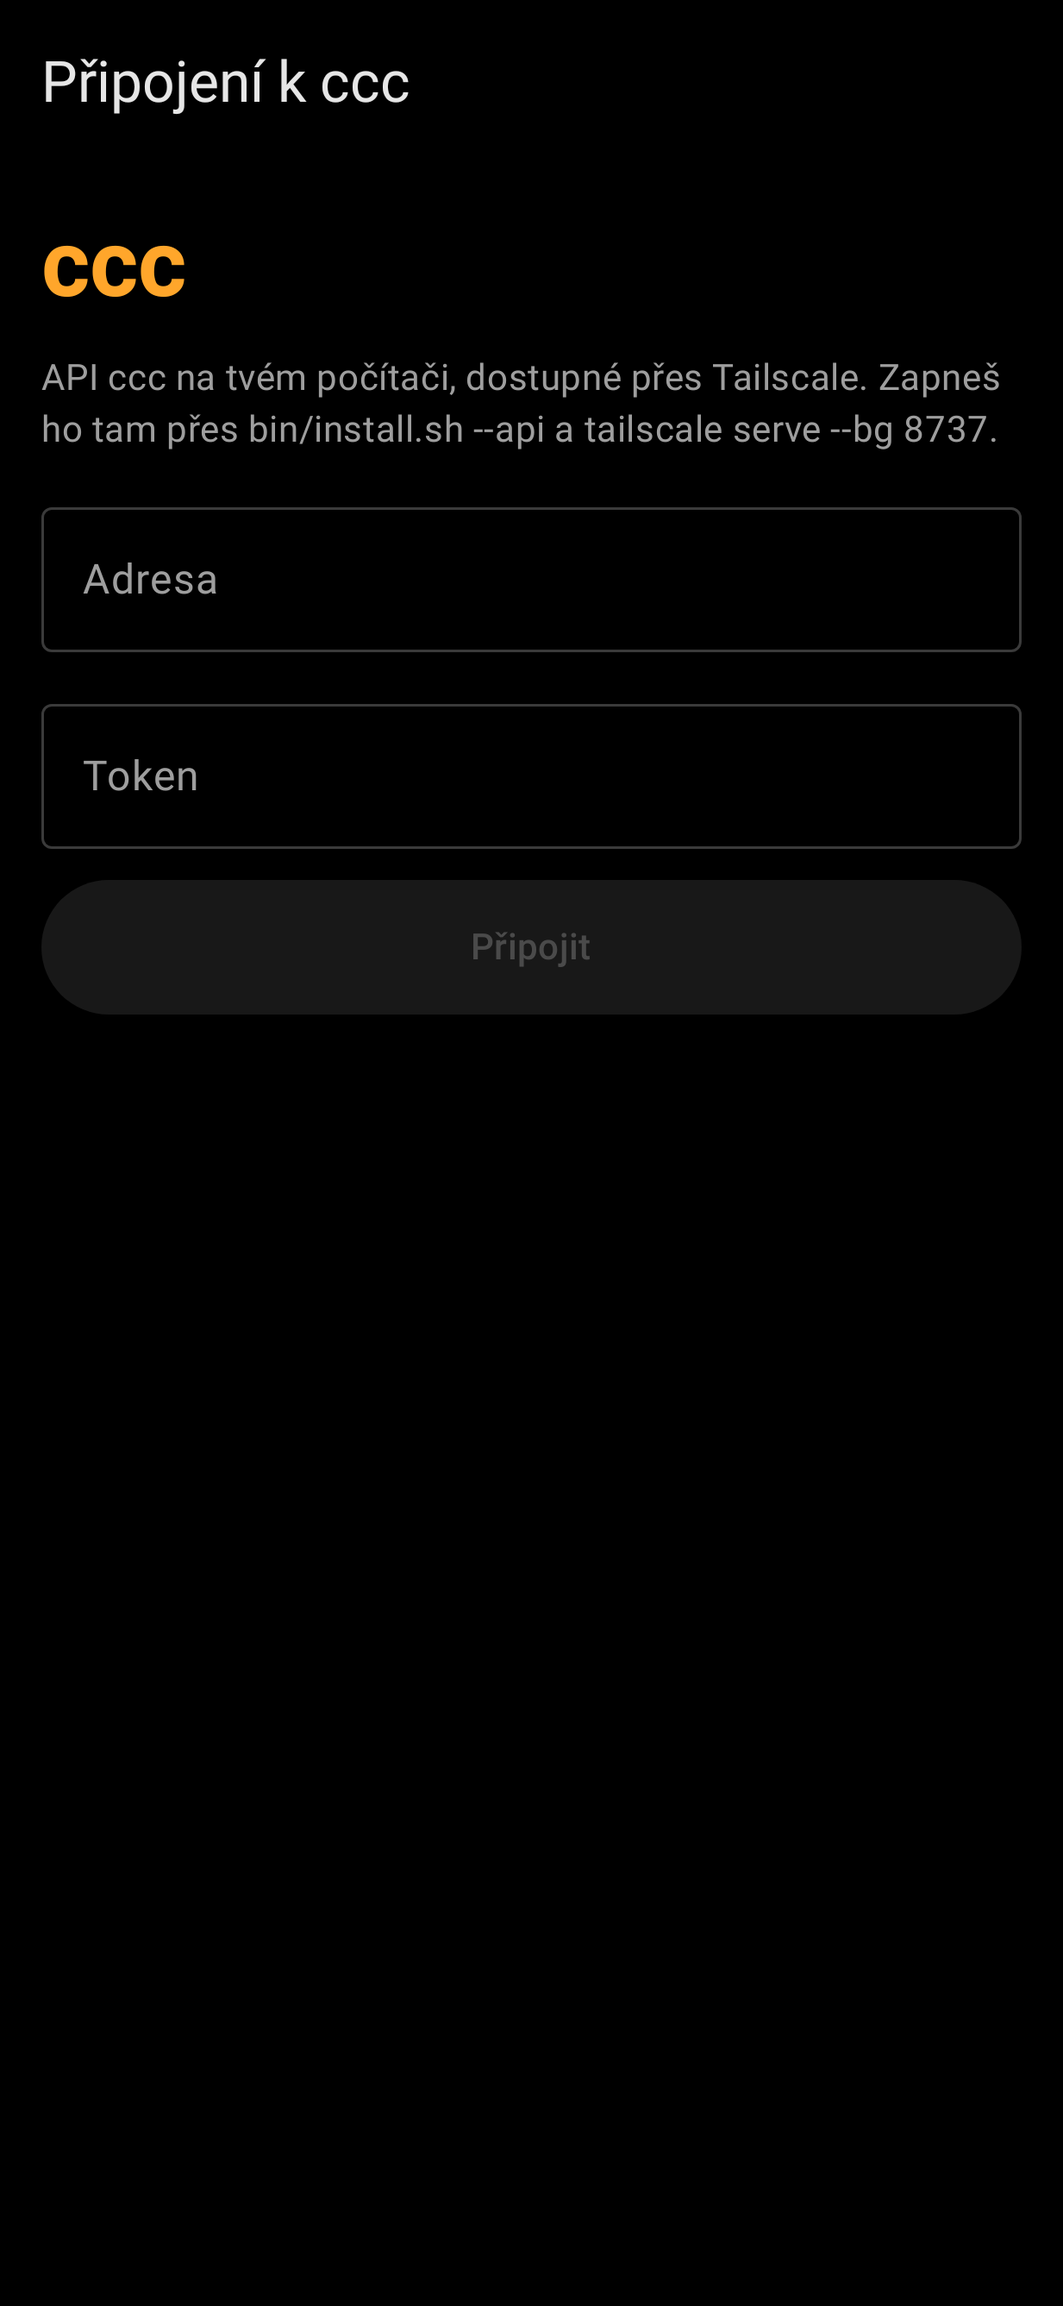
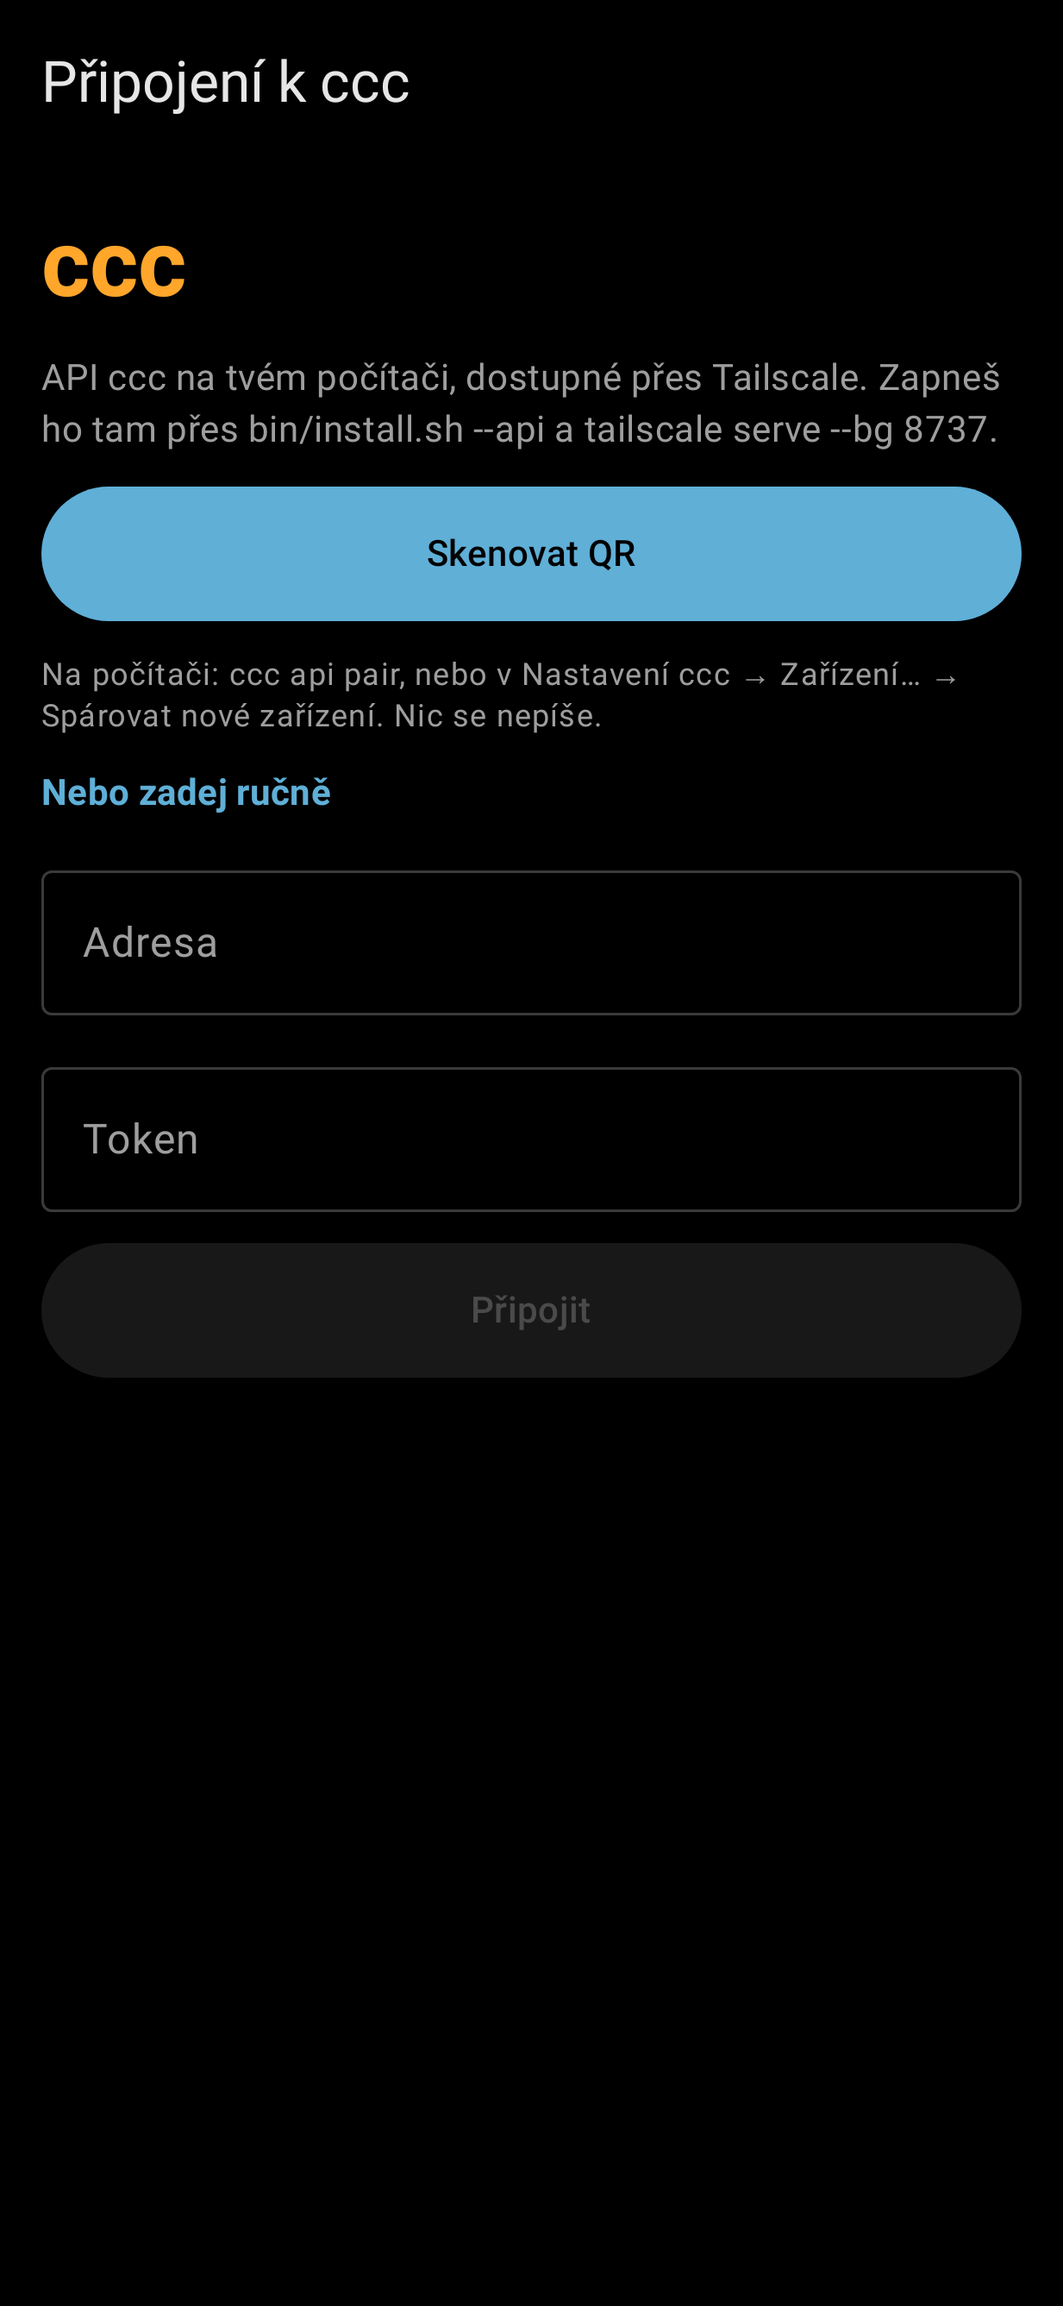
Android: sign in by scanning the QR code (ZXing), list and sign out devices (#128)
Claude-Session: https://claude.ai/code/session_01HoGxXtgeHNDDkThvTcTfKm

diff --git a/app/src/main/java/io/github/luquas95/ccc/ui/OtherScreens.kt b/app/src/main/java/io/github/luquas95/ccc/ui/OtherScreens.kt
@@ -46,6 +46,7 @@ import androidx.compose.material3.SnackbarHost
 import androidx.compose.material3.SnackbarHostState
 import androidx.compose.material3.Switch
 import androidx.compose.material3.Text
+import androidx.compose.material3.TextButton
 import androidx.compose.material3.TopAppBar
 import androidx.compose.material3.TopAppBarDefaults
 import androidx.compose.runtime.Composable
@@ -58,6 +59,9 @@ import androidx.compose.ui.Alignment
 import androidx.compose.ui.Modifier
 import androidx.compose.ui.graphics.Color
 import androidx.compose.ui.platform.LocalContext
+import com.journeyapps.barcodescanner.ScanContract
+import com.journeyapps.barcodescanner.ScanOptions
+import io.github.luquas95.ccc.data.Device
 import androidx.compose.ui.res.stringResource
 import androidx.core.content.ContextCompat
 import androidx.compose.ui.text.font.FontFamily
@@ -422,6 +426,25 @@ private fun SwitchRow(label: String, checked: Boolean, onChange: (Boolean) -> Un
     }
 }
 
+/** A phone signed in to ccc: its name, when and from where it was last seen, and a way to sign it out. */
+@Composable
+private fun DeviceRow(device: Device, onSignOut: (Device) -> Unit) {
+    Row(Modifier.fillMaxWidth(), verticalAlignment = Alignment.CenterVertically) {
+        Column(Modifier.weight(1f)) {
+            Text(
+                if (device.current) stringResource(R.string.device_this, device.name) else device.name,
+                fontWeight = if (device.current) FontWeight.Bold else FontWeight.Normal,
+            )
+            val seen = shortTime(device.lastSeenAt) ?: stringResource(R.string.device_never)
+            Text(listOf(seen, device.lastIp).filter { it.isNotBlank() }.joinToString(" · "),
+                style = MaterialTheme.typography.bodySmall, color = CccColors.Muted)
+        }
+        TextButton(onClick = { onSignOut(device) }) {
+            Text(stringResource(R.string.setup_sign_out), color = CccColors.Error)
+        }
+    }
+}
+
 @Composable
 fun SetupScreen(
     server: String,
@@ -434,15 +457,27 @@ fun SetupScreen(
     onConnect: (String, String, (Boolean) -> Unit) -> Unit,
     onNotifications: (Boolean) -> Unit,
     onSignOut: () -> Unit,
+    devices: List<Device>? = null,
+    onDevices: () -> Unit = {},
+    onSignOutDevice: (Device) -> Unit = {},
+    onScan: (String, (Boolean) -> Unit) -> Unit = { _, _ -> },
 ) {
     val context = LocalContext.current
+    var address by rememberSaveable { mutableStateOf(server) }
+    var token by rememberSaveable { mutableStateOf("") }
+    var busy by rememberSaveable { mutableStateOf(false) }
+    // The QR code of `ccc api pair`: the library's own screen asks for the camera and reads it.
+    val scan = rememberLauncherForActivityResult(ScanContract()) { result ->
+        result.contents?.let { text ->
+            busy = true
+            onScan(text) { busy = false }
+        }
+    }
+    LaunchedEffect(signedIn) { if (signedIn) onDevices() }
     // Android 13+ asks before an app may notify; on a yes, watching starts.
     val ask = rememberLauncherForActivityResult(ActivityResultContracts.RequestPermission()) { granted ->
         if (granted) onNotifications(true)
     }
-    var address by rememberSaveable { mutableStateOf(server) }
-    var token by rememberSaveable { mutableStateOf("") }
-    var busy by rememberSaveable { mutableStateOf(false) }
     Scaffold(
         topBar = { TopBar(stringResource(if (signedIn) R.string.connection else R.string.setup_title), onBack) },
         snackbarHost = { SnackbarHost(snackbar) },
@@ -462,6 +497,21 @@ fun SetupScreen(
                 Text(stringResource(R.string.setup_connected_to, server), color = CccColors.Muted)
             }
             Text(stringResource(R.string.setup_intro), style = MaterialTheme.typography.bodyMedium, color = CccColors.Muted)
+            Button(
+                onClick = {
+                    scan.launch(ScanOptions().apply {
+                        setDesiredBarcodeFormats(ScanOptions.QR_CODE)
+                        setPrompt(context.getString(R.string.scan_prompt))
+                        setBeepEnabled(false)
+                        setOrientationLocked(false)
+                    })
+                },
+                enabled = !busy,
+                modifier = Modifier.fillMaxWidth().height(52.dp),
+            ) { Text(stringResource(R.string.scan_qr)) }
+            Text(stringResource(R.string.scan_hint), style = MaterialTheme.typography.bodySmall, color = CccColors.Muted)
+            Text(stringResource(R.string.setup_manual), style = MaterialTheme.typography.titleSmall,
+                color = CccColors.Title, fontWeight = FontWeight.Bold)
             OutlinedTextField(
                 value = address,
                 onValueChange = { address = it },
@@ -492,6 +542,11 @@ fun SetupScreen(
                 if (busy) CircularProgressIndicator(Modifier.height(24.dp)) else Text(stringResource(R.string.setup_connect))
             }
             if (signedIn) {
+                Spacer(Modifier.height(16.dp))
+                Text(stringResource(R.string.devices), style = MaterialTheme.typography.titleSmall,
+                    color = CccColors.Title, fontWeight = FontWeight.Bold)
+                Text(stringResource(R.string.devices_hint), style = MaterialTheme.typography.bodySmall, color = CccColors.Muted)
+                devices?.forEach { device -> DeviceRow(device, onSignOutDevice) }
                 Spacer(Modifier.height(16.dp))
                 Text(stringResource(R.string.notifications), style = MaterialTheme.typography.titleSmall,
                     color = CccColors.Title, fontWeight = FontWeight.Bold)

diff --git a/app/src/main/java/io/github/luquas95/ccc/ui/AppViewModel.kt b/app/src/main/java/io/github/luquas95/ccc/ui/AppViewModel.kt
@@ -1,6 +1,7 @@
 package io.github.luquas95.ccc.ui
 
 import android.app.Application
+import android.os.Build
 import androidx.lifecycle.AndroidViewModel
 import androidx.lifecycle.viewModelScope
 import io.github.luquas95.ccc.R
@@ -8,11 +9,13 @@ import io.github.luquas95.ccc.data.ApiException
 import io.github.luquas95.ccc.data.CccApi
 import io.github.luquas95.ccc.data.Conversation
 import io.github.luquas95.ccc.data.ConversationDetail
+import io.github.luquas95.ccc.data.Device
 import io.github.luquas95.ccc.data.Export
 import io.github.luquas95.ccc.data.LaunchOptions
 import io.github.luquas95.ccc.data.LaunchPresets
 import io.github.luquas95.ccc.data.Message
 import io.github.luquas95.ccc.data.NewConversation
+import io.github.luquas95.ccc.data.Pairing
 import io.github.luquas95.ccc.data.Permission
 import io.github.luquas95.ccc.data.PromptPreset
 import io.github.luquas95.ccc.data.SearchHit
@@ -277,12 +280,57 @@ class AppViewModel(application: Application) : AndroidViewModel(application) {
         }
     }
 
+    /** A scanned QR code: a ccc pairing invite becomes a signed-in phone; anything else is refused. */
+    fun scanned(text: String, onDone: (Boolean) -> Unit) {
+        val invite = Pairing.parse(text)
+        if (invite == null) {
+            _message.value = text(R.string.error_qr)
+            onDone(false)
+            return
+        }
+        val unpaired = runCatching { CccApi(invite.server) }.getOrElse {
+            _message.value = text(R.string.error_server_address)
+            onDone(false)
+            return
+        }
+        viewModelScope.launch {
+            try {
+                val paired = unpaired.pair(invite.code, Build.MODEL.orEmpty().ifBlank { "Android" })
+                connect(invite.server, paired.token, onDone)
+            } catch (e: CancellationException) {
+                throw e
+            } catch (e: IOException) {
+                _message.value = if (e is ApiException && e.code == 401) text(R.string.error_pairing) else describe(e)
+                onDone(false)
+            }
+        }
+    }
+
+    private val _devices = MutableStateFlow<List<Device>?>(null)
+    /** The phones signed in to ccc (null until loaded), for the connection screen. */
+    val devices: StateFlow<List<Device>?> = _devices.asStateFlow()
+
+    fun loadDevices() {
+        val api = api ?: return
+        viewModelScope.launch { guard { _devices.value = api.devices() } }
+    }
+
+    /** Sign a phone out; this phone itself means signing out here too. */
+    fun signOutDevice(device: Device) {
+        val api = api ?: return
+        viewModelScope.launch {
+            if (!guard { api.removeDevice(device.id) }) return@launch
+            if (device.current) signOut() else loadDevices()
+        }
+    }
+
     fun signOut() {
         settings.clear()
         api = null
         events?.cancel()
         _home.value = HomeState()
         _conversation.value = null
+        _devices.value = null
         _screens.value = listOf(Screen.Setup)
         _notifications.value = false
         WatchService.sync(getApplication())

diff --git a/app/src/test/java/io/github/luquas95/ccc/data/CccApiTest.kt b/app/src/test/java/io/github/luquas95/ccc/data/CccApiTest.kt
@@ -106,6 +106,46 @@ class CccApiTest {
     }
 
     @Test
+    fun `pairing trades the code for a token without sending one`() = runBlocking {
+        answers["pair"] = 201 to """{"token": "t0k", "device_id": 4, "name": "Pixel", "version": "0.1.0"}"""
+
+        val paired = CccApi("http://127.0.0.1:${server.address.port}").pair("one-time", "Pixel")
+
+        assertEquals("t0k", paired.token)
+        assertEquals(4, paired.deviceId)
+        assertNull(seen.single().auth)
+        assertEquals("POST", seen.single().method)
+        assertTrue(seen.single().body.contains("\"code\":\"one-time\""))
+    }
+
+    @Test
+    fun `a wrong pairing code is an error with ccc's own text`() = runBlocking {
+        answers["pair"] = 401 to """{"error": "The pairing code is wrong, used or has run out."}"""
+        try {
+            CccApi("http://127.0.0.1:${server.address.port}").pair("nope", "Pixel")
+            fail("expected an error")
+        } catch (e: ApiException) {
+            assertEquals(401, e.code)
+        }
+    }
+
+    @Test
+    fun `lists the devices and signs one out`() = runBlocking {
+        answers["devices"] = 200 to """{"devices": [{"id": 1, "name": "Pixel", "last_seen_at": "2026-10-30T12:00:00",
+            "last_ip": "100.64.0.7", "current": true}, {"id": 2, "name": "Tablet", "created_at": "2026-10-29T08:00:00"}]}"""
+        answers["devices/2"] = 200 to """{"ok": true}"""
+
+        val devices = api().devices()
+        api().removeDevice(2)
+
+        assertEquals(listOf("Pixel", "Tablet"), devices.map { it.name })
+        assertTrue(devices[0].current)
+        assertEquals(false, devices[1].current)
+        assertNull(devices[1].lastSeenAt)
+        assertEquals("DELETE", seen.last().method)
+    }
+
+    @Test
     fun `messages ask for what is new`() = runBlocking {
         answers["conversations/7/messages"] = 200 to """{"total": 3, "messages": [
             {"index": 2, "kind": "assistant_text", "text": "Done", "time": "2026-10-21T10:00:00+00:00"}]}"""

diff --git a/app/src/main/java/io/github/luquas95/ccc/data/CccApi.kt b/app/src/main/java/io/github/luquas95/ccc/data/CccApi.kt
@@ -28,11 +28,11 @@ class ApiException(val code: Int, message: String) : IOException(message)
 /**
  * ccc's HTTP API (src/ccc/api.py) at [server] — e.g.
  * https://computer.tailnet.ts.net, with or without /api/v1 — signed in
- * with [token] (`ccc api token`).
+ * with [token] (`ccc api token`, or the one POST /pair gave this phone).
  */
 class CccApi(
     server: String,
-    private val token: String,
+    private val token: String = "",
     private val client: OkHttpClient = defaultClient,
 ) {
     private val base: HttpUrl = baseUrl(server) ?: throw IllegalArgumentException(server)
@@ -40,6 +40,20 @@ class CccApi(
     private val streamClient = client.newBuilder().readTimeout(0, TimeUnit.SECONDS).build()
 
     suspend fun status(): Status = get("status")
+
+    /** Trade the one-time [code] of a QR code for a token of this phone's own (the one call that needs no token). */
+    suspend fun pair(code: String, name: String): PairResult = call(
+        Request.Builder().url(base.newBuilder().addPathSegments("pair").build())
+            .post(body("code" to JsonPrimitive(code), "name" to JsonPrimitive(name)).toRequestBody(JSON)).build(),
+    )
+
+    /** The phones signed in, this one marked [Device.current]. */
+    suspend fun devices(): List<Device> = get<Devices>("devices").devices
+
+    /** Sign a phone out at once (this one too). */
+    suspend fun removeDevice(id: Int) {
+        call<Unit>(request("devices/$id").delete().build())
+    }
 
     /** Update ccc (git pull, install, restart); an error says why not (a task is running …). */
     suspend fun applyUpdate(): UpdateResult = post("update", "{}")

diff --git a/app/src/main/java/io/github/luquas95/ccc/data/Pairing.kt b/app/src/main/java/io/github/luquas95/ccc/data/Pairing.kt
@@ -1,0 +1,22 @@
+package io.github.luquas95.ccc.data
+
+import java.net.URLDecoder
+
+/** What the QR code of `ccc api pair` holds: where ccc is and a one-time code to trade for a token. */
+data class PairingInvite(val server: String, val code: String)
+
+object Pairing {
+    private const val PREFIX = "ccc://pair?"
+
+    /** The invite in [text] (src/ccc/pairing.py `payload`: ccc://pair?server=…&code=…), or null for any other QR. */
+    fun parse(text: String): PairingInvite? {
+        val query = text.trim().takeIf { it.startsWith(PREFIX) }?.removePrefix(PREFIX) ?: return null
+        val fields = query.split('&').mapNotNull { part ->
+            val (name, value) = part.split('=', limit = 2).takeIf { it.size == 2 } ?: return@mapNotNull null
+            name to runCatching { URLDecoder.decode(value, "UTF-8") }.getOrNull()
+        }.toMap()
+        val server = fields["server"]?.trim().orEmpty()
+        val code = fields["code"]?.trim().orEmpty()
+        return if (server.isEmpty() || code.isEmpty()) null else PairingInvite(server, code)
+    }
+}

diff --git a/app/src/main/java/io/github/luquas95/ccc/MainActivity.kt b/app/src/main/java/io/github/luquas95/ccc/MainActivity.kt
@@ -81,6 +81,7 @@ class MainActivity : ComponentActivity() {
 private fun App(model: AppViewModel) {
     val screens by model.screens.collectAsStateWithLifecycle()
     val home by model.home.collectAsStateWithLifecycle()
+    val devices by model.devices.collectAsStateWithLifecycle()
     val conversation by model.conversation.collectAsStateWithLifecycle()
     val newConversation by model.newConversation.collectAsStateWithLifecycle()
     val message by model.message.collectAsStateWithLifecycle()
@@ -133,6 +134,10 @@ private fun App(model: AppViewModel) {
             onConnect = model::connect,
             onNotifications = model::setNotifications,
             onSignOut = model::signOut,
+            devices = devices,
+            onDevices = model::loadDevices,
+            onSignOutDevice = model::signOutDevice,
+            onScan = model::scanned,
         )
         Screen.Conversations -> ConversationsScreen(
             state = home,

diff --git a/app/src/main/java/io/github/luquas95/ccc/data/MoreModels.kt b/app/src/main/java/io/github/luquas95/ccc/data/MoreModels.kt
@@ -5,6 +5,29 @@ import kotlinx.serialization.Serializable
 
 /** Reviews, goals, workflows, questions, routines, live sessions, analytics and settings (src/ccc/api_agents.py, api_views.py). */
 
+/** The answer of POST /pair: the token of this phone's own device. */
+@Serializable
+data class PairResult(
+    val token: String,
+    @SerialName("device_id") val deviceId: Int,
+    val name: String = "",
+    val version: String = "",
+)
+
+/** A phone signed in to ccc's API (GET /devices); [current] is the one asking. */
+@Serializable
+data class Device(
+    val id: Int,
+    val name: String,
+    @SerialName("created_at") val createdAt: String? = null,
+    @SerialName("last_seen_at") val lastSeenAt: String? = null,
+    @SerialName("last_ip") val lastIp: String = "",
+    val current: Boolean = false,
+)
+
+@Serializable
+data class Devices(val devices: List<Device> = emptyList())
+
 @Serializable
 data class Review(
     val id: Int,

diff --git a/app/src/test/java/io/github/luquas95/ccc/data/PairingTest.kt b/app/src/test/java/io/github/luquas95/ccc/data/PairingTest.kt
@@ -1,0 +1,22 @@
+package io.github.luquas95.ccc.data
+
+import org.junit.Assert.assertEquals
+import org.junit.Assert.assertNull
+import org.junit.Test
+
+/** The QR payload of src/ccc/pairing.py `payload`. */
+class PairingTest {
+    @Test
+    fun `reads the address and the code of a ccc QR code`() {
+        val invite = Pairing.parse("ccc://pair?server=https%3A%2F%2Fxia.tail0ffcfb.ts.net%3A8737&code=AbC_-0123")
+        assertEquals(PairingInvite("https://xia.tail0ffcfb.ts.net:8737", "AbC_-0123"), invite)
+    }
+
+    @Test
+    fun `refuses any other QR code`() {
+        assertNull(Pairing.parse("https://example.com/?server=x&code=y"))
+        assertNull(Pairing.parse("ccc://pair?server=https%3A%2F%2Fx.ts.net"))
+        assertNull(Pairing.parse("ccc://pair?server=&code=abc"))
+        assertNull(Pairing.parse(""))
+    }
+}

diff --git a/app/src/test/java/io/github/luquas95/ccc/ui/ScreenshotsTest.kt b/app/src/test/java/io/github/luquas95/ccc/ui/ScreenshotsTest.kt
@@ -189,7 +189,11 @@ open class ScreenshotsTest {
 
     @Test
     fun connection() = shot("connection", "computer.tailnet") {
-        SetupScreen("computer.tailnet.ts.net", true, true, ListDetail.DEFAULT, { _, _ -> }, SnackbarHostState(), {}, { _, _, _ -> }, {}, {})
+        SetupScreen("computer.tailnet.ts.net", true, true, ListDetail.DEFAULT, { _, _ -> }, SnackbarHostState(), {}, { _, _, _ -> }, {}, {},
+            devices = listOf(
+                io.github.luquas95.ccc.data.Device(1, "Pixel 8", lastSeenAt = "2026-10-30T12:01:00", lastIp = "100.64.0.7", current = true),
+                io.github.luquas95.ccc.data.Device(2, "Redmi Note 13", lastSeenAt = "2026-10-29T07:54:00", lastIp = "100.64.0.9"),
+            ))
     }
 
     @Test

diff --git a/README.md b/README.md
@@ -105,9 +105,15 @@ echo "sdk.dir=$HOME/Android/Sdk" > local.properties   # once
 adb install -r app/build/outputs/apk/debug/app-debug.apk
 ```
 
-Or copy `app-debug.apk` to the phone and open it there. Then enter the
-address (`tailscale serve status` on the computer prints it, e.g.
-`computer.tailnet.ts.net`) and the token (`ccc api token`).
+Or copy `app-debug.apk` to the phone and open it there. Then sign in
+with a **QR code**: on the computer run `ccc api pair` (or ccc's
+*Settings → Devices… → Pair a new device*) and tap *Scan QR code* in the
+app. The code is good for 5 minutes and one phone; the phone gets a token
+of its own, which *Connection → Devices* lists and can sign out. The
+scanner is ZXing, so nothing needs Google Play services.
+
+Or enter the address (`tailscale serve status` on the computer prints it,
+e.g. `computer.tailnet.ts.net`) and the token (`ccc api token`) by hand.
 
 The debug build also allows plain `http://` (e.g. ccc's API on the
 computer's Tailscale IP and port 8737, without `tailscale serve`) —
